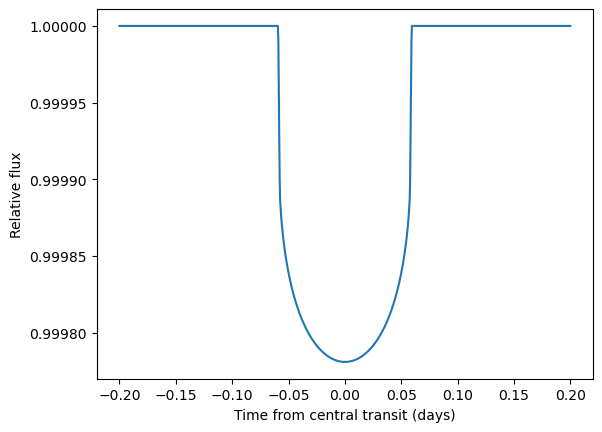
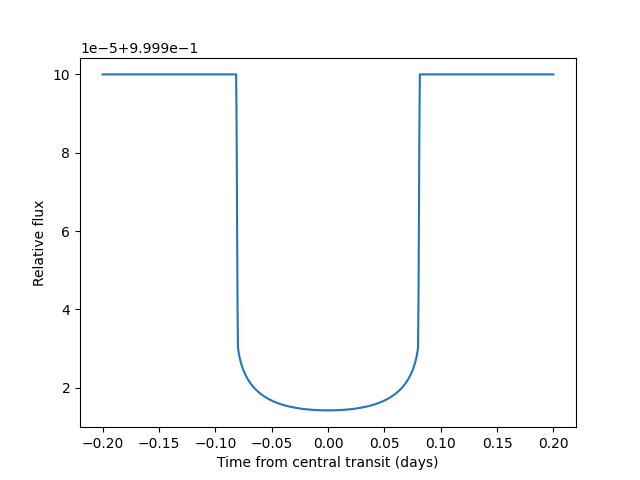
task G and H

diff --git a/src/daneel/detection/transit_method.py b/src/daneel/detection/transit_method.py
@@ -1,0 +1,38 @@
+import batman
+import numpy as np
+import matplotlib.pyplot as plt
+from pylab import *
+from matplotlib import rc
+
+
+
+def transit(args):
+
+    limb_dark_data = np.genfromtxt("/ca25/ext_volume/ldc_result.csv", skip_header=17)
+    u1 = np.mean(limb_dark_data[:, 8])
+    u2 = np.mean(limb_dark_data[:, 10])
+
+    #u1=0.1
+    #u2=0.3
+    params = batman.TransitParams()
+    params.t0 = args['t0']
+    params.per = args['period']
+    params.rp = args['r_planet']
+    params.a = args['a']
+    params.inc = args['inc']
+    params.ecc = args['ecc']
+    params.w = args['w']
+    params.u    = [u1, u2]
+    params.limb_dark = args['limb_dark']
+
+    t = np.linspace(-0.2, 0.2, 1000)
+
+    m = batman.TransitModel(params, t)	        #initializes model
+    flux = m.light_curve(params)
+
+    plt.plot(t, flux)
+    plt.xlabel("Time from central transit (days)")
+    plt.ylabel("Relative flux")
+    # plt.ylim((0.989, 1.001))
+    plt.savefig("TOI-2322b_assignment1_taskF.png") 
+    plt.show()

diff --git a/src/daneel/__main__.py b/src/daneel/__main__.py
@@ -2,6 +2,7 @@ import datetime
 import argparse
 from daneel.parameters import Parameters
 from daneel.detection import *
+from daneel.detection import transit_method
 
 
 def main():
@@ -28,10 +29,21 @@ def main():
     parser.add_argument(
         "-a",
         "--atmosphere",
-        dest="complete",
+        dest="atmosphere",
         required=False,
         help="Atmospheric Characterisazion from input transmission spectrum",
         action="store_true",
+    )
+
+    parser.add_argument(
+        "-t",
+        "--transit",
+        dest="transit",
+        required=False,
+        help="test transit",
+        action='store_const',
+        default=transit_method.transit,
+		const=transit_method.transit,
     )
 
     args = parser.parse_args()
@@ -46,6 +58,8 @@ def main():
         pass
     if args.atmosphere:
         pass
+    if args.transit:
+        transit_method.transit(input_pars)
 
     finish = datetime.datetime.now()
     print(f"Daneel finishes at {finish}")

diff --git a/src/daneel/parameters/parameters.py b/src/daneel/parameters/parameters.py
@@ -13,6 +13,11 @@ class Parameters:
     """
 
     def __init__(self, input_file):
+        #get the current directory
+        dir_path = os.path.dirname(os.path.realpath(__file__))
+        #add the .yaml filename to get the full path of the file
+        input_file = os.path.join(dir_path, input_file)
+
         if os.path.exists(input_file) and os.path.isfile(input_file):
             with open(input_file) as in_f:
                 self.params = yaml.load(in_f, Loader=yaml.FullLoader)

diff --git a/src/daneel/detection/data_process.py b/src/daneel/detection/data_process.py
@@ -1,4 +1,4 @@
 import pandas as pd
 import numpy as np
 from scipy import ndimage, fft
-from sklearn.preprocessing import normalize, StandardScaler, MinMaxScaler
+#from sklearn.preprocessing import normalize, StandardScaler, MinMaxScaler

diff --git a/README.md b/README.md
@@ -53,6 +53,9 @@ daneel -i parameters.yaml -d
 # Run atmospheric characterization
 daneel -i parameters.yaml -a
 
+# Run the transit method
+daneel -i parameter_TOI-2322_b.yaml -t
+
 # Run both detection and atmospheric analysis
 daneel -i parameters.yaml -d -a
 ```
